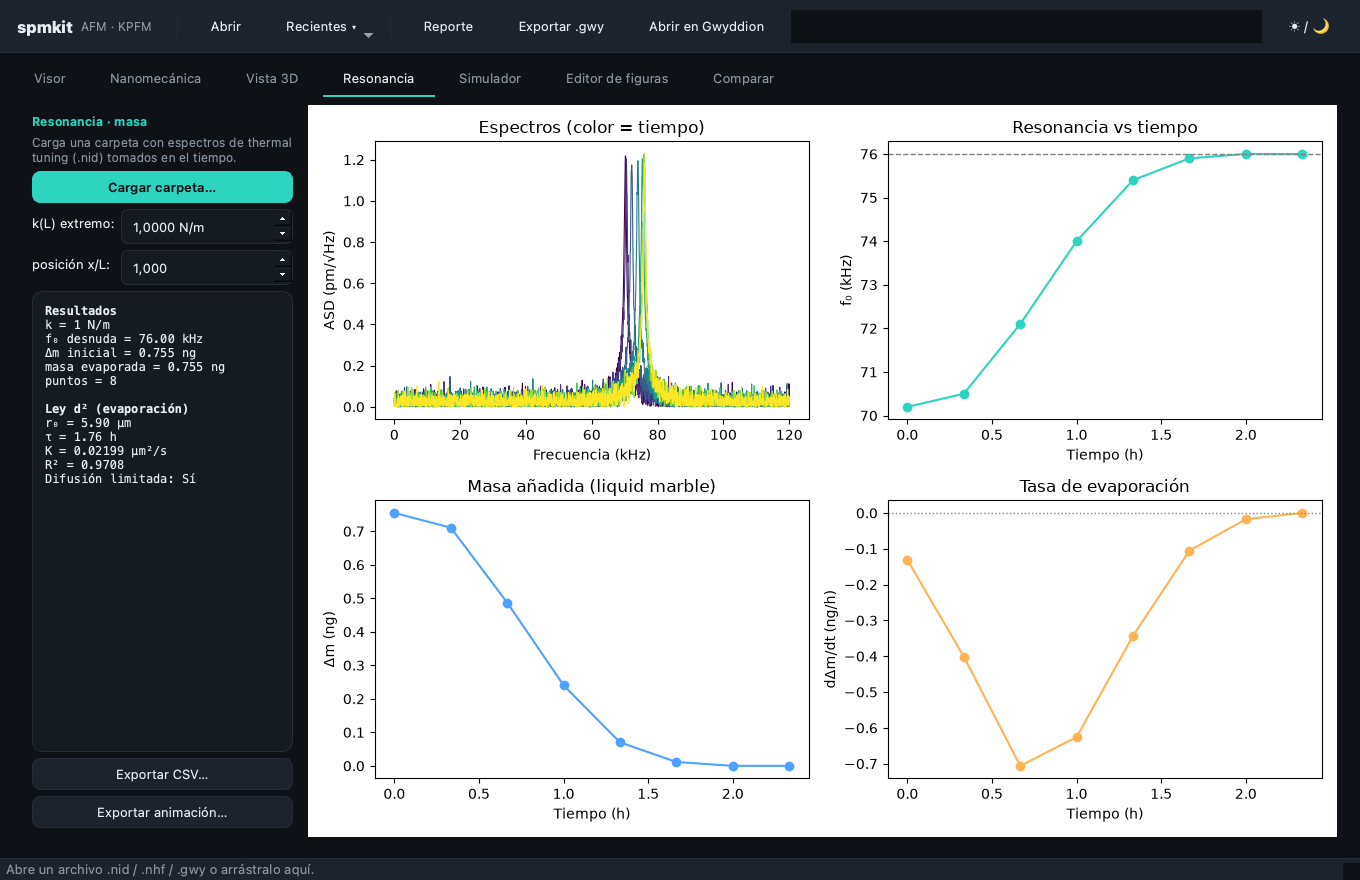
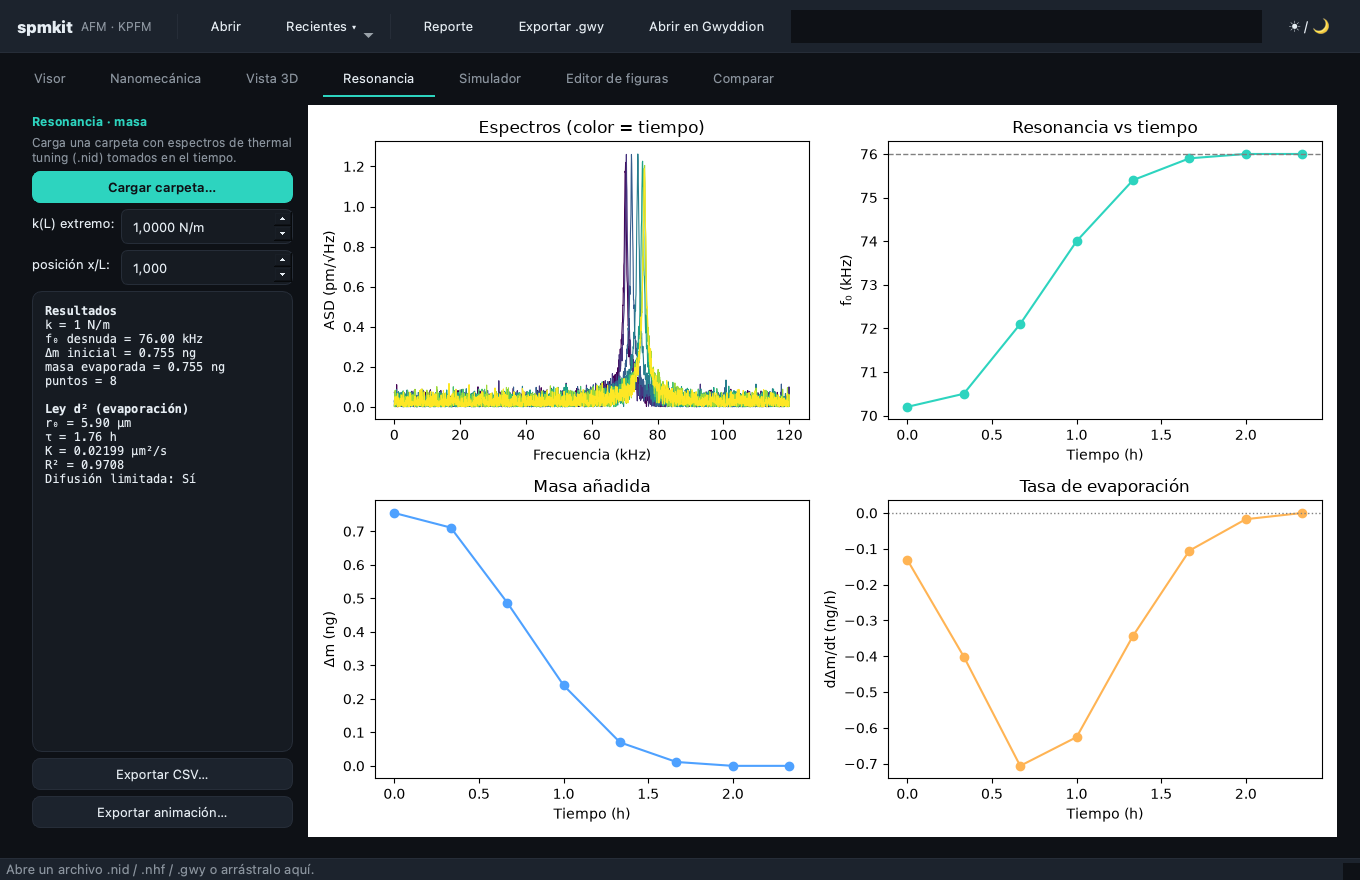
docs: presentar solo teoría general, sin el experimento específico
Eliminadas todas las referencias al experimento concreto (identificadores de la
muestra y del método específico) en docs, README, CHANGELOG, código y la guía de
teoría. La sección de resonancia ahora explica el sensado de masa por frecuencia
de forma general (báscula dinámica), con un diagrama y ejemplo ilustrativo
genéricos. Captura de resonancia regenerada.

diff --git a/docs/theory/index.html b/docs/theory/index.html
@@ -293,7 +293,7 @@
         <span class="chip"><b>9</b> secciones</span>
         <span class="chip g"><b>4</b> diagramas SVG</span>
         <span class="chip">fuerzas de <b>pN</b> · alturas de <b>nm</b></span>
-        <span class="chip g">ejemplo: liquid marble <b>Δm ≈ 1 ng</b></span>
+        <span class="chip g">ejemplo: masa añadida <b>Δm ≈ 1 ng</b></span>
       </div>
     </header>
 
@@ -685,17 +685,18 @@
         <span class="var">f(t)</span> en el tiempo, se reconstruye <span class="var">Δm(t)</span>:
         una <strong>báscula dinámica</strong> en vivo.</div>
 
-      <h3>El experimento: una <em>liquid marble</em> que se evapora</h3>
-      <p>Una <strong>liquid marble</strong> es una gotita de agua recubierta de partículas hidrófobas
-        que la vuelven una «canica» que no se moja. Colocada en la punta del cantiléver, su masa de
-        agua baja la frecuencia de resonancia. A medida que el agua se evapora, la masa disminuye y la
-        frecuencia trepa de vuelta hacia la del cantiléver desnudo.</p>
+      <h3>Aplicación: una báscula dinámica</h3>
+      <p>Si en la punta del cantiléver se deposita una pequeña <strong>masa</strong>, la frecuencia de
+        resonancia baja. Si esa masa <em>cambia con el tiempo</em> (por ejemplo porque se evapora, se
+        adsorbe o reacciona), siguiendo <span class="var">f(t)</span> se reconstruye
+        <span class="var">Δm(t)</span> en vivo: el cantiléver se vuelve una <strong>báscula
+        dinámica</strong> de resolución sub-nanogramo.</p>
 
       <figure>
-        <span class="fig-label">Figura 3 · Liquid marble en la punta del cantiléver</span>
-        <svg viewBox="0 0 760 250" role="img" aria-label="Cantiléver con liquid marble en la punta">
+        <span class="fig-label">Figura 3 · Masa añadida en la punta del cantiléver</span>
+        <svg viewBox="0 0 760 250" role="img" aria-label="Cantiléver con una masa añadida en la punta">
           <defs>
-            <radialGradient id="marble" cx="38%" cy="32%" r="72%">
+            <radialGradient id="mass" cx="38%" cy="32%" r="72%">
               <stop offset="0" stop-color="#7af0e0"/><stop offset="55%" stop-color="#2dd4bf"/>
               <stop offset="100%" stop-color="#0d6b60"/>
             </radialGradient>
@@ -709,26 +710,16 @@
           <text class="lab" x="250" y="74" text-anchor="middle">cantiléver (oscila a f₀)</text>
           <!-- tip pointing down at end -->
           <polygon points="470,128 486,128 478,168" fill="#2dd4bf"/>
-          <!-- liquid marble -->
-          <circle cx="478" cy="196" r="34" fill="url(#marble)" stroke="#0d6b60"/>
-          <!-- hydrophobic grains -->
-          <circle cx="456" cy="182" r="3" fill="#0E1116" opacity=".55"/>
-          <circle cx="496" cy="184" r="3" fill="#0E1116" opacity=".55"/>
-          <circle cx="500" cy="206" r="3" fill="#0E1116" opacity=".55"/>
-          <circle cx="460" cy="210" r="3" fill="#0E1116" opacity=".55"/>
-          <circle cx="478" cy="222" r="3" fill="#0E1116" opacity=".55"/>
-          <text class="lab-t" x="540" y="196">liquid marble (agua + granos)</text>
-          <text class="lab-m" x="540" y="212">masa de agua → baja f₀</text>
-          <!-- evaporation arrows -->
-          <path d="M478,160 q-6,-18 -2,-34" fill="none" stroke="#8B949E" stroke-width="1" stroke-dasharray="2 3"/>
-          <path d="M498,162 q8,-16 6,-32" fill="none" stroke="#8B949E" stroke-width="1" stroke-dasharray="2 3"/>
-          <text class="lab-m" x="528" y="120">evaporación ↑</text>
+          <!-- added mass (generic) -->
+          <circle cx="478" cy="194" r="30" fill="url(#mass)" stroke="#0d6b60"/>
+          <text class="lab-t" x="540" y="194">masa Δm</text>
+          <text class="lab-m" x="540" y="210">añade masa al modo → baja f₀</text>
           <!-- oscillation indicator -->
           <path d="M150,118 q14,-12 28,0 t28,0 t28,0" fill="none" stroke="#f0a830" stroke-width="1.4" opacity=".8"/>
         </svg>
-        <figcaption>La gotita recubierta cuelga de la punta; su agua añade masa al modo y reduce
-          <b>f₀</b>. Conforme se evapora (ley d²), la masa cae y <b>f₀</b> regresa a la del cantiléver
-          desnudo. El cantiléver actúa como báscula en tiempo real.</figcaption>
+        <figcaption>Una masa en la punta añade masa al modo y reduce <b>f₀</b>. Si la masa disminuye
+          con el tiempo, <b>f₀</b> sube de vuelta hacia la del cantiléver desnudo: el cantiléver actúa
+          como báscula en tiempo real.</figcaption>
       </figure>
 
       <p>El corrimiento se ve directamente en el espectro de resonancia: el pico <strong>cargado</strong>
@@ -767,10 +758,9 @@
           <text class="lab" x="445" y="152" text-anchor="middle">Δf ≈ 6.2 kHz</text>
           <text class="lab-m" x="445" y="178" text-anchor="middle">Δf ∝ Δm  →  Δm ≈ 1 ng</text>
         </svg>
-        <figcaption>Resultado real medido con <b>spmkit</b>: la liquid marble desplaza la resonancia de
-          <b>≈79 kHz</b> (desnudo) a <b>≈73 kHz</b> (cargado). De ese corrimiento, con k conocido, se
-          obtiene una masa añadida de agua de <b>Δm ≈ 1 ng</b>. Al evaporarse, el pico dorado migra
-          hacia el teal.</figcaption>
+        <figcaption>Ejemplo ilustrativo: una masa añadida desplaza la resonancia de <b>≈79 kHz</b>
+          (desnudo) a <b>≈73 kHz</b> (cargado). De ese corrimiento, con k conocido, se obtiene
+          <b>Δm ≈ 1 ng</b>. Al disminuir la masa, el pico dorado migra hacia el teal.</figcaption>
       </figure>
 
       <div class="phys"><span class="lbl">Ley d² de evaporación</span>
@@ -841,7 +831,7 @@
         <div class="gcard"><dt>Factor de calidad Q</dt><dd>f₀/Δf<sub>FWHM</sub>; cuán afilado y poco amortiguado es el pico.</dd></div>
         <div class="gcard"><dt>Thermal tuning</dt><dd>Calibrar k a partir del ruido térmico vía equipartición ⟨x²⟩ = k<sub>B</sub>T/k.</dd></div>
         <div class="gcard"><dt>m<sub>eff</sub></dt><dd>Masa efectiva del modo de vibración: m = k/(2πf)².</dd></div>
-        <div class="gcard"><dt>Liquid marble</dt><dd>Gota de agua recubierta de granos hidrófobos; carga de masa evaporable.</dd></div>
+        <div class="gcard"><dt>Sensado de masa</dt><dd>Medir masa añadida por el corrimiento de la frecuencia de resonancia: Δf ∝ Δm.</dd></div>
       </div>
 
       <h3>Para seguir aprendiendo</h3>

diff --git a/src/spmkit/core/analysis/resonance.py b/src/spmkit/core/analysis/resonance.py
@@ -1,7 +1,7 @@
 """Resonancia del cantiléver y sensado de masa por desplazamiento de frecuencia.
 
 Un cantiléver es un oscilador armónico: ``f0 = (1/2π)·√(k/m_eff)``. Al añadir
-masa en la punta (p.ej. una *liquid marble*), ``f0`` baja; al evaporarse la
+masa en la punta (p.ej. una masa añadida), ``f0`` baja; al evaporarse la
 masa, ``f0`` vuelve a la del cantiléver desnudo. De ahí:
 
 * Masa efectiva:        ``m_eff = k / (2π·f0)²``
@@ -98,9 +98,9 @@ class EvaporationSeries:
 
 # --------------------------------------------------------------- física básica
 def effective_spring_constant(k_end: float, x_over_l: float = 1.0) -> float:
-    """Constante de resorte efectiva en la posición de carga (nano-TGA).
+    """Constante de resorte efectiva en la posición de carga.
 
-    La spícula/liquid marble se carga en una posición ``x`` a lo largo del
+    La muestra se carga en una posición ``x`` a lo largo del
     cantiléver (medida en micrografías ópticas, como fracción ``x/L`` de la
     longitud). La constante efectiva en esa posición se relaciona con la del
     extremo ``k(L)`` (medida por el método de ruido térmico) por::
@@ -212,7 +212,7 @@ def track_evaporation(
 ) -> EvaporationSeries:
     """Calcula masa, masa añadida y tasa de evaporación a partir de ``f(t)``.
 
-    Usa la fórmula nano-TGA del SPM Lab UTFSM::
+    Usa la fórmula de sensado de masa por desplazamiento de frecuencia::
 
         Δm = k(x)/(4π²) · (1/f² − 1/f_desnuda²),   k(x) = k(L)/(x/L)³
 
@@ -259,7 +259,7 @@ def load_evaporation_series(
     """Carga una serie de ``.nid`` de thermal tuning y arma la evaporación.
 
     Lee la frecuencia de resonancia y el instante de cada archivo, ordena por
-    tiempo y calcula la masa y la tasa de evaporación (nano-TGA).
+    tiempo y calcula la masa y la tasa de evaporación.
 
     Args:
         files: Archivos ``.nid`` de thermal tuning (uno por instante).

diff --git a/src/spmkit/gui/simulator_tab.py b/src/spmkit/gui/simulator_tab.py
@@ -1,8 +1,8 @@
 """Pestaña Simulador: gemelo digital educativo del cantiléver AFM.
 
 Demuestra cómo el espectro de ruido térmico (ASD) y la frecuencia de
-resonancia se desplazan al añadir masa en la punta — conectado con el
-experimento de evaporación de *liquid marbles*.
+resonancia se desplazan al añadir masa en la punta — la base del sensado de
+masa por desplazamiento de frecuencia.
 
 Física: oscilador armónico simple (SHO); normalización por equipartición.
 El core está en ``spmkit.core.analysis.simulation``.

diff --git a/tests/validation/test_evaporation_real.py b/tests/validation/test_evaporation_real.py
@@ -1,4 +1,4 @@
-"""Validación con datos reales de evaporación de liquid marbles (thermal tuning)."""
+"""Validación con datos reales de muestras que pierden masa en el tiempo (thermal tuning)."""
 
 from __future__ import annotations
 
@@ -36,7 +36,7 @@ def test_evaporation_series_physics() -> None:
     assert len(ev.time) == len(_FILES)
     # La frecuencia sube con el tiempo (la masa baja al evaporarse).
     assert ev.frequency[-1] > ev.frequency[0]
-    # La masa de la liquid marble es del orden de ~1 ng.
+    # La masa de la masa añadida es del orden de ~1 ng.
     assert 0.1e-12 < ev.added_mass[0] < 5e-12
     # Δm decrece hasta ~0 al final.
     assert ev.added_mass[-1] < ev.added_mass[0]

diff --git a/src/spmkit/cli/app.py b/src/spmkit/cli/app.py
@@ -274,7 +274,7 @@ def evaporation(
         )
     console.print(table)
     console.print(
-        f"[cyan]Masa de la liquid marble (Δm inicial):[/] {ev.added_mass[0] * 1e12:.3f} ng"
+        f"[cyan]Masa de la masa añadida (Δm inicial):[/] {ev.added_mass[0] * 1e12:.3f} ng"
     )
 
     # Ajuste ley d² (evaporación limitada por difusión)

diff --git a/src/spmkit/core/analysis/simulation.py b/src/spmkit/core/analysis/simulation.py
@@ -3,7 +3,7 @@
 Modela el espectro de ruido térmico (densidad espectral de amplitud, ASD) de
 un oscilador armónico simple (SHO) y el corrimiento de frecuencia al añadir
 masa en la punta — fenómeno observado experimentalmente durante la evaporación
-de *liquid marbles*.
+de muestras.
 
 Física del oscilador armónico:
     * Resonancia natural:  ``f0 = (1/2π) √(k / m_eff)``

diff --git a/src/spmkit/core/io/nid.py b/src/spmkit/core/io/nid.py
@@ -1,6 +1,6 @@
 """Parser del formato NanoSurf ``.nid`` (clásico).
 
-Estructura del archivo (verificada con archivos reales del SPM Lab UTFSM):
+Estructura del archivo (verificada con archivos reales):
 
 * Cabecera de texto tipo INI codificada en ``latin-1``.
 * Un marcador binario ``#!`` (2 bytes) separa la cabecera de los datos.

diff --git a/src/spmkit/gui/resonance_tab.py b/src/spmkit/gui/resonance_tab.py
@@ -162,7 +162,7 @@ class ResonanceTab(QtWidgets.QWidget):
         ax.plot(ev.time / 3600, ev.added_mass * 1e12, "o-", color="#4ea1ff")
         ax.set_xlabel("Tiempo (h)")
         ax.set_ylabel("Δm (ng)")
-        ax.set_title("Masa añadida (liquid marble)")
+        ax.set_title("Masa añadida")
 
         # 4) tasa de evaporación
         ax = axes[1][1]

diff --git a/src/spmkit/gui/welcome.py b/src/spmkit/gui/welcome.py
@@ -15,7 +15,7 @@ arrastrándolo a la ventana) y trabaja en las pestañas:</p>
   <li><b>Visor</b> — imagen, perfil de línea interactivo y rugosidad (ISO 25178) / KPFM.</li>
   <li><b>Nanomecánica</b> — curvas fuerza-distancia, ajuste de Hertz y mapas de
       módulo/adhesión.</li>
-  <li><b>Resonancia</b> — sensado de masa por evaporación (nano-TGA): f(t), masa
+  <li><b>Resonancia</b> — sensado de masa por evaporación: f(t), masa
       y tasa desde espectros de thermal tuning.</li>
   <li><b>Editor de figuras</b> — figuras de publicación con colormaps científicos,
       barra de escala y textos arrastrables (doble-clic para editar).</li>

diff --git a/tests/core/test_resonance.py b/tests/core/test_resonance.py
@@ -44,7 +44,7 @@ def test_effective_spring_constant() -> None:
 
 
 def test_x_over_l_scales_mass() -> None:
-    # Cargar más cerca de la base (x/L<1) → k(x) mayor → masa mayor (fórmula nano-TGA).
+    # Cargar más cerca de la base (x/L<1) → k(x) mayor → masa mayor (k(x)=k(L)/(x/L)³).
     t = np.array([0.0, 3600.0])
     f = np.array([72_800.0, 79_000.0])
     ev_tip = resonance.track_evaporation(t, f, 1.175, x_over_l=1.0)

diff --git a/CHANGELOG.md b/CHANGELOG.md
@@ -9,7 +9,7 @@ el versionado es [SemVer](https://semver.org/lang/es/).
 ## [0.1.1] - 2026-06-16
 
 ### Añadido
-- **nano-TGA** (sensado de masa por posición): constante de resorte efectiva k(x)=k(L)/(x/L)³ según la posición de carga x/L de la spícula/liquid marble; fórmula Δm = k(x)/(4π²)·(1/f₁²−1/f₀²) del SPM Lab UTFSM, con control de posición en la GUI y opción --position en la CLI.
+- **Sensado de masa por posición de carga**: constante de resorte efectiva k(x)=k(L)/(x/L)³ según la posición de carga x/L de la masa; fórmula Δm = k(x)/(4π²)·(1/f₁²−1/f₀²), con control de posición en la GUI y opción --position en la CLI.
 - **Evaporación avanzada**: ajuste SHO/Lorentziano del pico, ley d² (radio de
   gota, régimen de difusión) y exportación de la evaporación como animación GIF.
 - **Vista 3D** de topografía (superficie con dorado, hillshade, exageración Z).
@@ -21,9 +21,8 @@ el versionado es [SemVer](https://semver.org/lang/es/).
 - **Resonancia y sensado de masa** (`core/analysis/resonance.py`): lee espectros
   de *thermal tuning* de NanoSurf, detecta la resonancia y sigue la masa por
   desplazamiento de frecuencia (`m = k/(2πf)²`, `Δf ∝ Δm`). Pestaña GUI
-  **Resonancia** y comando `spmkit evaporation` para evaporación de *liquid
-  marbles*: f(t), masa añadida Δm(t) y tasa de evaporación dΔm/dt. Validado con una serie
-  de evaporación (Δm del orden de ~1 ng).
+  **Resonancia** y comando `spmkit evaporation` para seguimiento de masa en el
+  tiempo: f(t), masa añadida Δm(t) y tasa dΔm/dt.
 - **Detección de granos/partículas** (`core/analysis/grains.py`, extra `[grains]`):
   segmentación con `scipy.ndimage`, estadística de tamaños (diámetro equivalente,
   cobertura, densidad) y comando `spmkit grains`.

diff --git a/README.md b/README.md
@@ -59,7 +59,7 @@ Cada sección procesando datos *(ejemplos con datos sintéticos)*:
 | Visor — imagen, perfil y rugosidad/KPFM | Nanomecánica — curva F-d y ajuste Hertz |
 |:---:|:---:|
 | <img src="docs/images/sections/01_visor.png" width="400"> | <img src="docs/images/sections/02_nanomecanica.png" width="400"> |
-| **Vista 3D** — superficie con iluminación | **Resonancia** — sensado de masa (nano-TGA) |
+| **Vista 3D** — superficie con iluminación | **Resonancia** — sensado de masa |
 | <img src="docs/images/sections/03_vista3d.png" width="400"> | <img src="docs/images/sections/04_resonancia.png" width="400"> |
 | **Simulador** — gemelo digital del cantiléver | **Editor de figuras** — publicación |
 | <img src="docs/images/sections/05_simulador.png" width="400"> | <img src="docs/images/sections/06_editor.png" width="400"> |